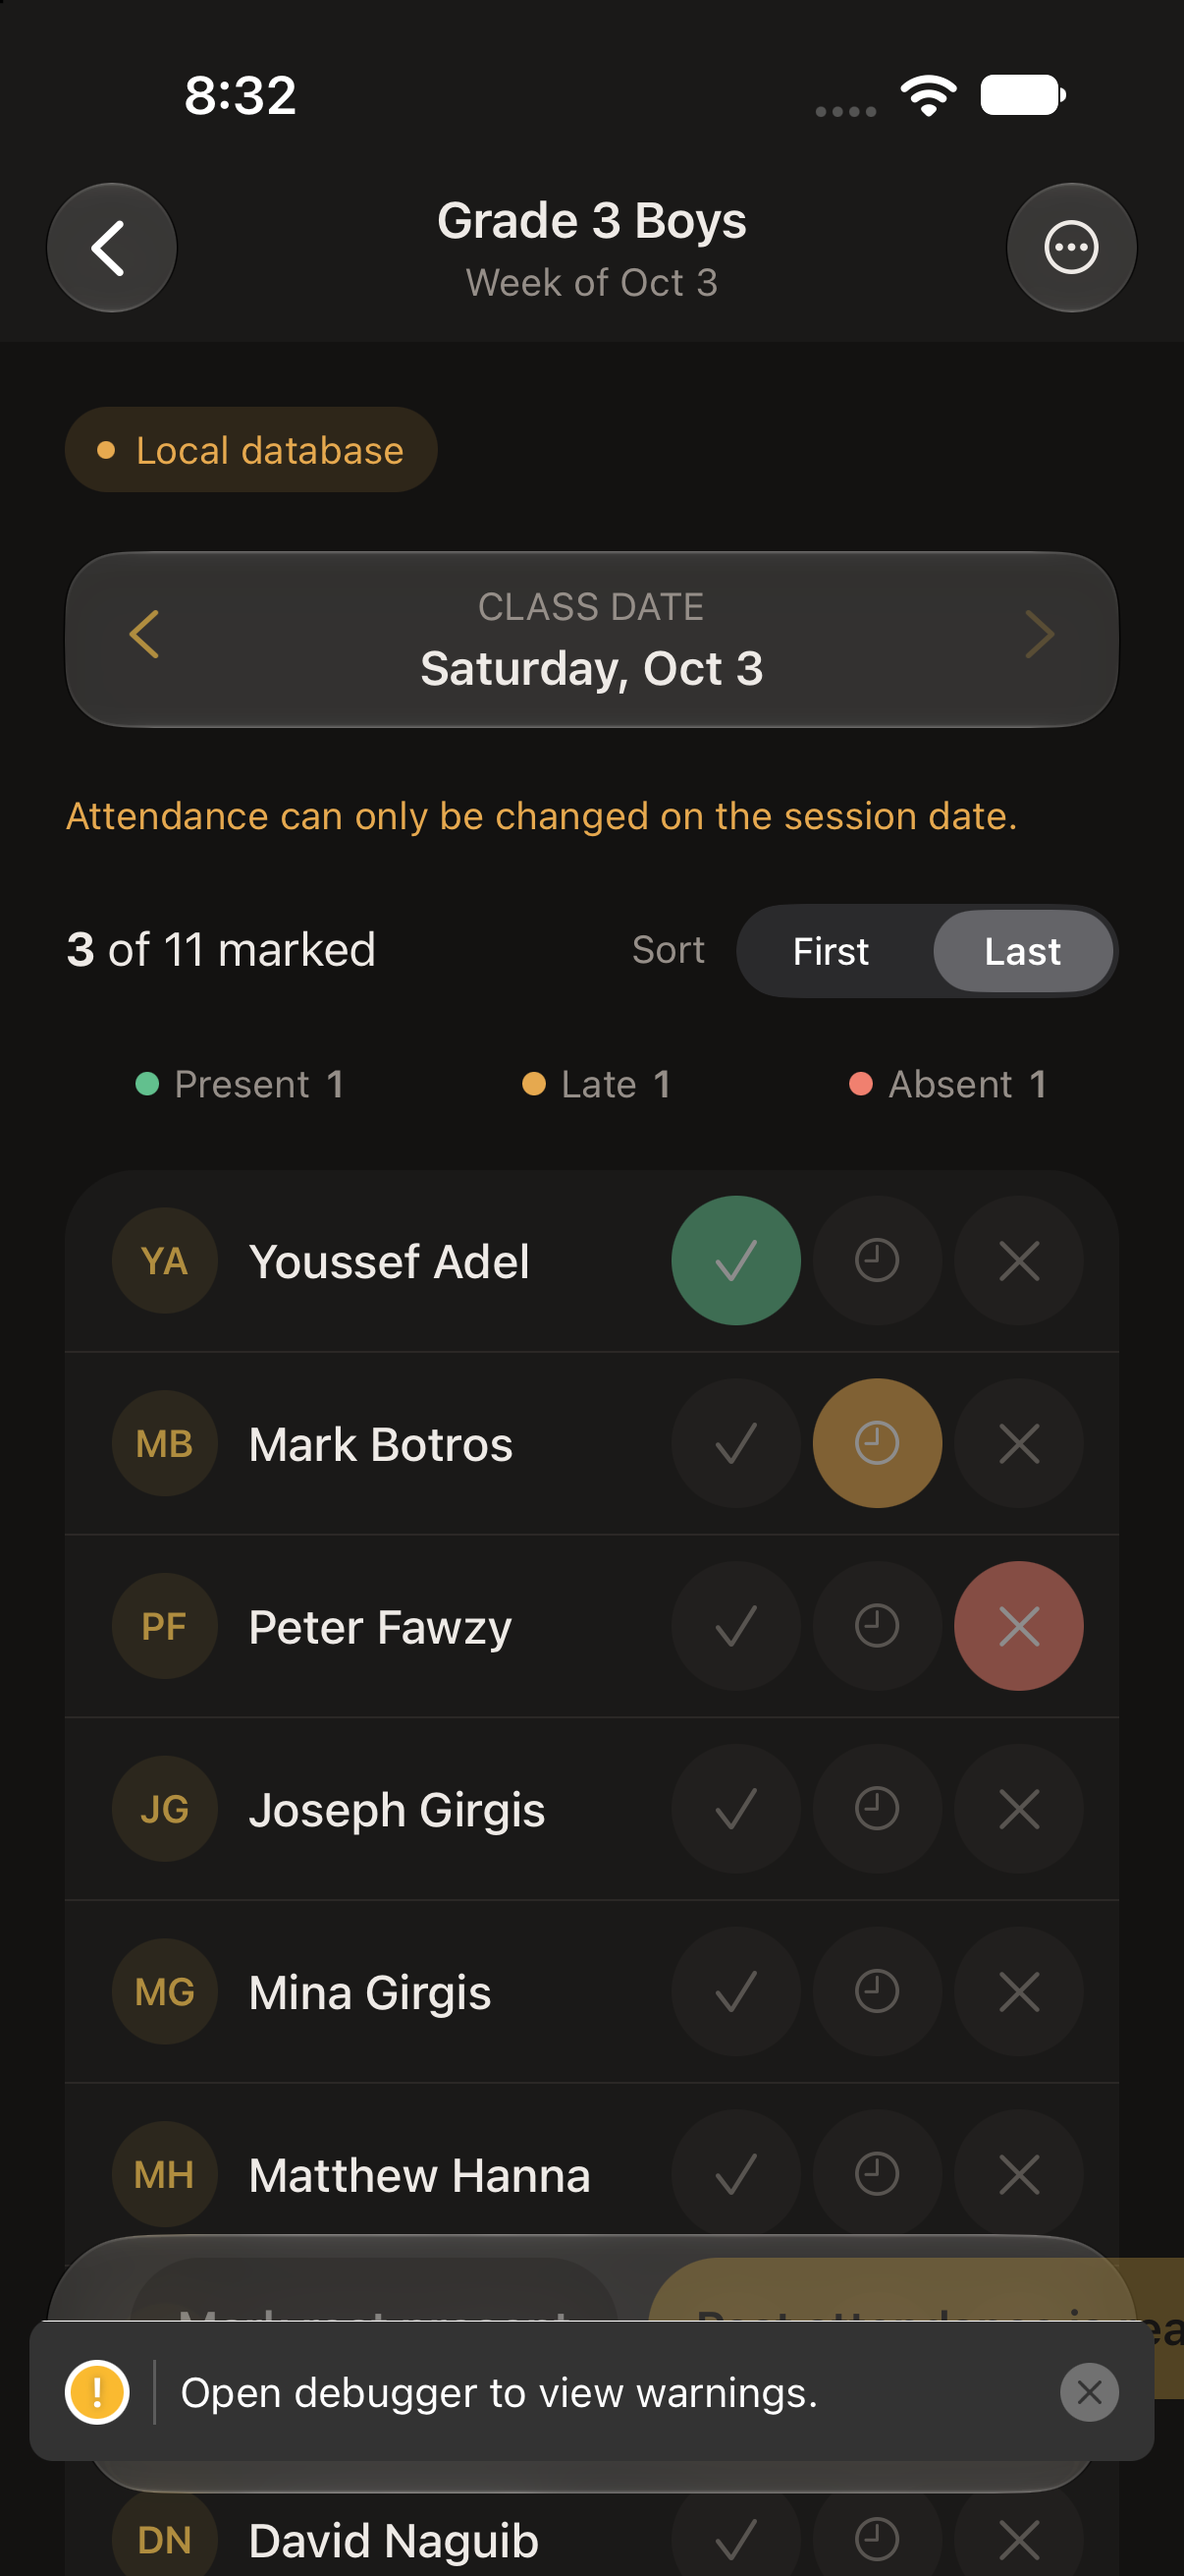
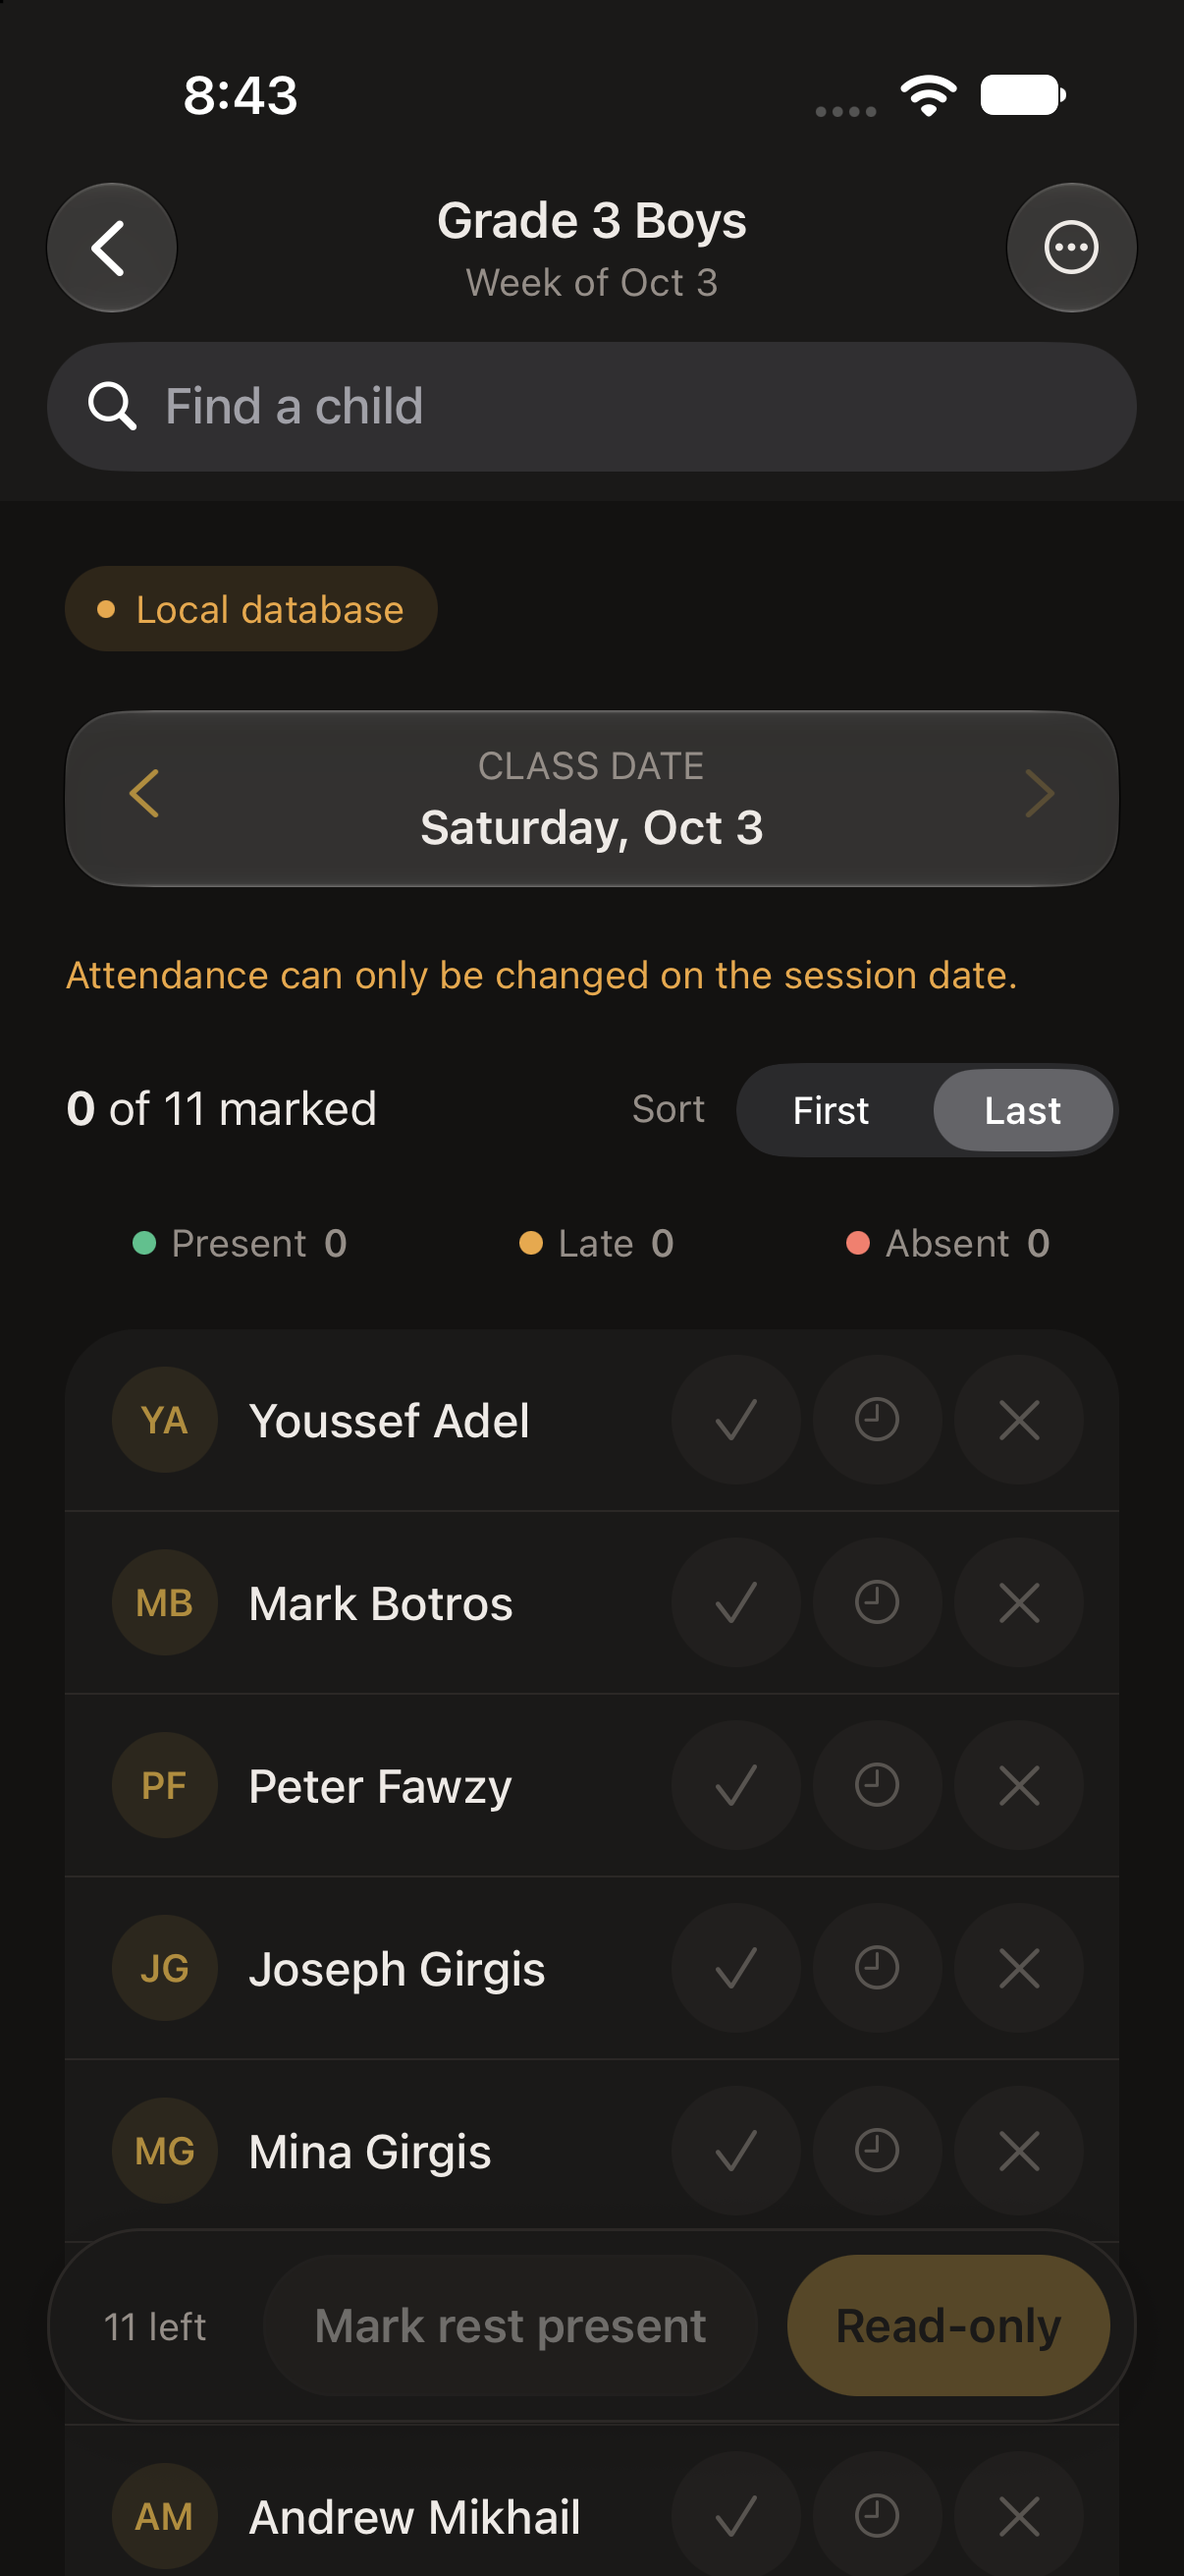
SMM-50: fix layout bugs from live review, then relax the date policy
Three real UI bugs found during live review, all fixed:

- The bottom bar's two action buttons ("Mark rest present" / Save) washed
  out when wrapped in an `interactive` GlassChrome — the codebase's own
  documented rule ("Glass belongs to controls. Content cards always use an
  opaque surface," chrome.tsx) exists exactly because solid-colored content
  doesn't composite well with the system's glass material. Switched the bar
  to a plain opaque surface, matching Card's own fallback styling.
- `Stack.SearchBar`'s `placement="automatic"` assumes a large title to dock
  under. With `headerLargeTitle: false` (a deliberate choice for this
  work/action screen), it had nothing to anchor to and rendered detached,
  landing on top of the floating bottom bar instead of under the nav bar —
  exactly the "buttons look transparent, under Find a child" report.
  `placement="stacked"` forces its own fixed bar under the compact nav bar
  unconditionally, fixing it for good rather than depending on there being
  a large title.
- The bar's text ("N children left") and the "Past attendance is read-only"
  label both overflowed/wrapped once the bar was opaque and visible —
  shortened the labels ("N left", "Read-only") and added flexShrink/
  numberOfLines safety nets so neither can do that again regardless of
  locale or a longer future label.

Then, per explicit direction: Sunday School attendance is no longer
today-only. Removed the real policy, not just the UI text for it:
[…]

diff --git a/apps/mobile/src/app/attendance/[classId].tsx b/apps/mobile/src/app/attendance/[classId].tsx
@@ -11,7 +11,6 @@ import type {
 } from "@stmark/contracts";
 import {
   getChildFullName,
-  isSessionDateToday,
   organizeAttendanceRoster,
   type AttendanceRosterNameOrder,
 } from "@stmark/domain";
@@ -71,7 +70,7 @@ function AttendanceRoster({ classId, initialDate }: { classId: string; initialDa
   const cls = classes.find((item) => item.id === classId)!;
   const { colors } = useAppTheme();
   const insets = useSafeAreaInsets();
-  const [date, setDate] = useState(() => initialDate && validDate(initialDate) && initialDate <= new Date().toISOString().slice(0, 10) ? initialDate : meetingDate(cls));
+  const [date, setDate] = useState(() => initialDate && validDate(initialDate) ? initialDate : meetingDate(cls));
   const [loaded, setLoaded] = useState<{
     date: string;
     value: SundaySchoolSessionAttendance;
@@ -148,7 +147,11 @@ function AttendanceRoster({ classId, initialDate }: { classId: string; initialDa
   const ids = roster.map((child) => child.id);
   const progress = rosterProgress(ids, marks);
   const dirty = !sameMarks(ids, marks, serverMarks);
-  const canEdit = !!current && !!cls.canServe && !saving && isSessionDateToday(date);
+  // Editable for any week, not just today's session — the server no longer
+  // enforces a same-day window either (app/api/sunday-school/sessions and
+  // .../attendance/batch both dropped their own isSessionDateToday checks,
+  // a deliberate policy change, not an oversight).
+  const canEdit = !!current && !!cls.canServe && !saving;
   const canSave = canEdit && progress.complete && dirty;
 
   // A note typed this session, kept local to this device and separate from the
@@ -195,14 +198,13 @@ function AttendanceRoster({ classId, initialDate }: { classId: string; initialDa
     );
   }
 
+  // Short enough to never overflow the bottom bar's Save button.
   const saveLabel = saving
     ? "Saving…"
     : !cls.canServe
-      ? "Read-only access"
-      : !isSessionDateToday(date)
-        ? "Past attendance is read-only"
+      ? "Read-only"
       : saved && !dirty
-        ? "Attendance saved"
+        ? "Saved"
         : "Save";
 
   async function save() {
@@ -269,7 +271,12 @@ function AttendanceRoster({ classId, initialDate }: { classId: string; initialDa
       />
       <Stack.SearchBar
         autoCapitalize="none"
-        placement="automatic"
+        // "automatic" placement assumes a large title to dock under; with
+        // headerLargeTitle disabled on this work screen, it had nothing to
+        // anchor to and rendered detached near the bottom of the screen,
+        // overlapping the floating save bar. "stacked" forces its own fixed
+        // bar directly under the compact nav bar instead, every time.
+        placement="stacked"
         placeholder="Find a child"
         onChangeText={(event) => setQuery(event.nativeEvent.text)}
         onCancelButtonPress={() => setQuery("")}
@@ -297,26 +304,15 @@ function AttendanceRoster({ classId, initialDate }: { classId: string; initialDa
             <Pressable
               accessibilityRole="button"
               accessibilityLabel="Next week"
-              accessibilityState={{
-                disabled: saving || date >= meetingDate(cls),
-              }}
-              disabled={saving || date >= meetingDate(cls)}
+              accessibilityState={{ disabled: saving }}
+              disabled={saving}
               onPress={() => setDate(shiftWeek(date, 1))}
-              style={{
-                padding: 12,
-                minHeight: 48,
-                opacity: date >= meetingDate(cls) ? 0.3 : 1,
-              }}
+              style={{ padding: 12, minHeight: 48 }}
             >
               <Icon ios="chevron.right" android="chevron_right" size={20} />
             </Pressable>
           </View>
         </GlassChrome>
-        {!isSessionDateToday(date) && (
-          <Copy kind="caption" color={colors.warning}>
-            Attendance can only be changed on the session date.
-          </Copy>
-        )}
         {lastWeekSummary && (
           <Copy kind="caption">
             Last week: {lastWeekSummary.present} of {lastWeekSummary.total} present
@@ -400,10 +396,33 @@ function AttendanceRoster({ classId, initialDate }: { classId: string; initialDa
 
       {!!roster.length && (
         <View style={{ position: "absolute", left: 16, right: 16, bottom: insets.bottom + 18 }}>
-          <GlassChrome interactive style={{ borderRadius: 32, padding: 8, paddingLeft: 18 }}>
+          {/* "Glass belongs to controls. Content cards always use an opaque
+              surface" (chrome.tsx's own rule) — this bar's two solid-colored
+              action buttons are content, not ambient chrome, so it gets the
+              same opaque surface a Card does, not a translucent GlassChrome
+              (which otherwise washed the buttons' own fill colors out). */}
+          <View
+            style={{
+              borderRadius: 32,
+              padding: 8,
+              paddingLeft: 18,
+              backgroundColor: colors.surface,
+              borderWidth: 1,
+              borderColor: colors.border,
+              shadowColor: "#000",
+              shadowOpacity: 0.12,
+              shadowRadius: 12,
+              shadowOffset: { width: 0, height: 4 },
+              elevation: 4,
+            }}
+          >
             <View style={[styles.row, { gap: 10 }]}>
-              <View style={{ flex: 1 }} accessibilityLiveRegion="polite">
-                <Copy kind="caption">{roster.length - progress.marked} children left</Copy>
+              <View style={{ flex: 1, minWidth: 0 }} accessibilityLiveRegion="polite">
+                {/* Shortened from the artboard's "N children left" — with two
+                    buttons alongside it in the same bar, the fuller wording
+                    had no room and truncated unreadably; "children" is
+                    already established by every other label on this screen. */}
+                <Copy kind="caption" numberOfLines={1}>{roster.length - progress.marked} left</Copy>
               </View>
               <BarButton
                 label="Mark rest present"
@@ -412,7 +431,7 @@ function AttendanceRoster({ classId, initialDate }: { classId: string; initialDa
               />
               <BarButton label={saveLabel} primary disabled={!canSave} onPress={() => void save()} />
             </View>
-          </GlassChrome>
+          </View>
         </View>
       )}
     </View>
@@ -453,12 +472,18 @@ function BarButton({
       accessibilityState={{ disabled }}
       disabled={disabled}
       style={({ pressed }) => ({
+        flexShrink: 1,
         height: 48,
         paddingHorizontal: 16,
         borderRadius: 24,
         alignItems: "center",
         justifyContent: "center",
         backgroundColor: primary ? colors.primary : colors.hover,
+        // The secondary fill alone reads too close to this bar's own
+        // surface color to stand out — a border gives it a clear edge,
+        // the same way roster.tsx's FilterChip defines itself.
+        borderWidth: primary ? 0 : 1,
+        borderColor: colors.border,
         opacity: disabled ? 0.4 : pressed ? 0.75 : 1,
       })}
       onPress={onPress}

diff --git a/app/api/sunday-school/sessions/route.ts b/app/api/sunday-school/sessions/route.ts
@@ -3,7 +3,7 @@ import { prisma } from "@/lib/prisma"
 import { requireAuth } from "@/lib/auth-helpers"
 import { handleApiError } from "@/lib/api-utils"
 import { canServeClass, getSundaySchoolAccess, visibleClassFilter } from "@/lib/sunday-school-access"
-import { isSessionDateToday, normalizeSessionDate } from "@/lib/sunday-school-class"
+import { normalizeSessionDate } from "@/lib/sunday-school-class"
 
 // Sunday School mode: a session is one weekly meeting of one class.
 
@@ -100,12 +100,6 @@ export async function POST(request: Request) {
     const access = await getSundaySchoolAccess(user, sundaySchoolClass.academicYearId)
     if (!canServeClass(access, classId)) {
       return NextResponse.json({ error: "Forbidden" }, { status: 403 })
-    }
-    if (!isSessionDateToday(sessionDate)) {
-      return NextResponse.json(
-        { error: "Attendance sessions can only be opened on the session date" },
-        { status: 400 }
-      )
     }
 
     // Idempotent: opening the attendance page for a date that already has a

diff --git a/app/api/sunday-school/attendance/batch/route.ts b/app/api/sunday-school/attendance/batch/route.ts
@@ -4,7 +4,6 @@ import { requireAuth } from "@/lib/auth-helpers"
 import { handleApiError } from "@/lib/api-utils"
 import { canServeClass, getSundaySchoolAccess } from "@/lib/sunday-school-access"
 import { AttendanceStatus } from "@prisma/client"
-import { isSessionDateToday } from "@/lib/sunday-school-class"
 
 // Sunday School mode: save a whole class's child attendance for one session.
 // Modeled on /api/attendance/batch, minus the prep-only concerns (conduct
@@ -53,12 +52,6 @@ export async function POST(request: Request) {
     const access = await getSundaySchoolAccess(user, session.class.academicYearId)
     if (!canServeClass(access, session.classId)) {
       return NextResponse.json({ error: "Forbidden" }, { status: 403 })
-    }
-    if (!isSessionDateToday(session.date)) {
-      return NextResponse.json(
-        { error: "Attendance can only be recorded on the session date" },
-        { status: 400 }
-      )
     }
 
     for (const record of records) {
